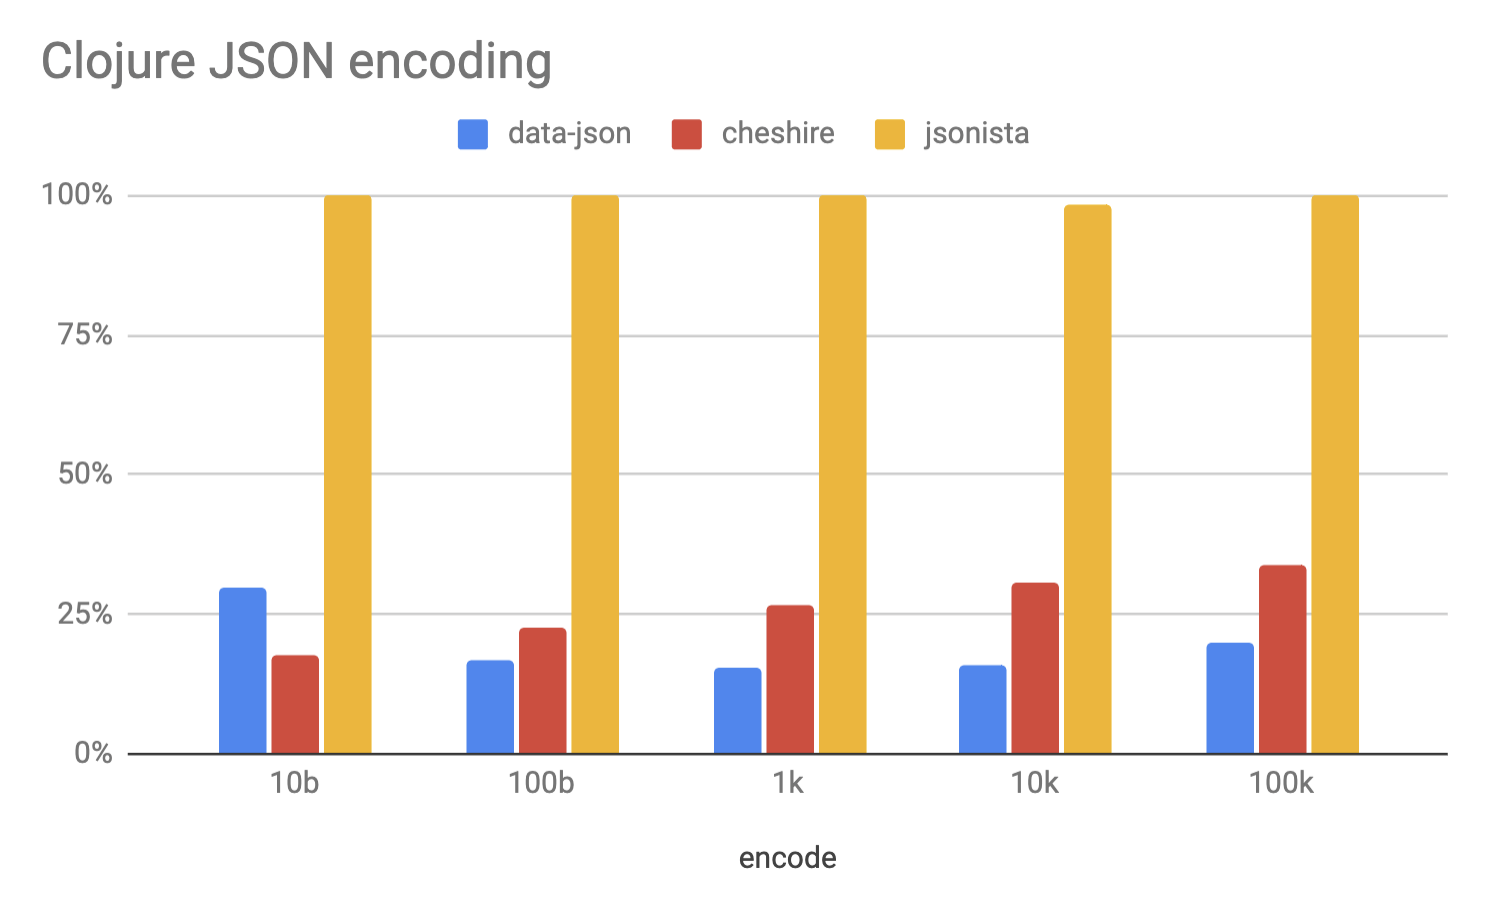
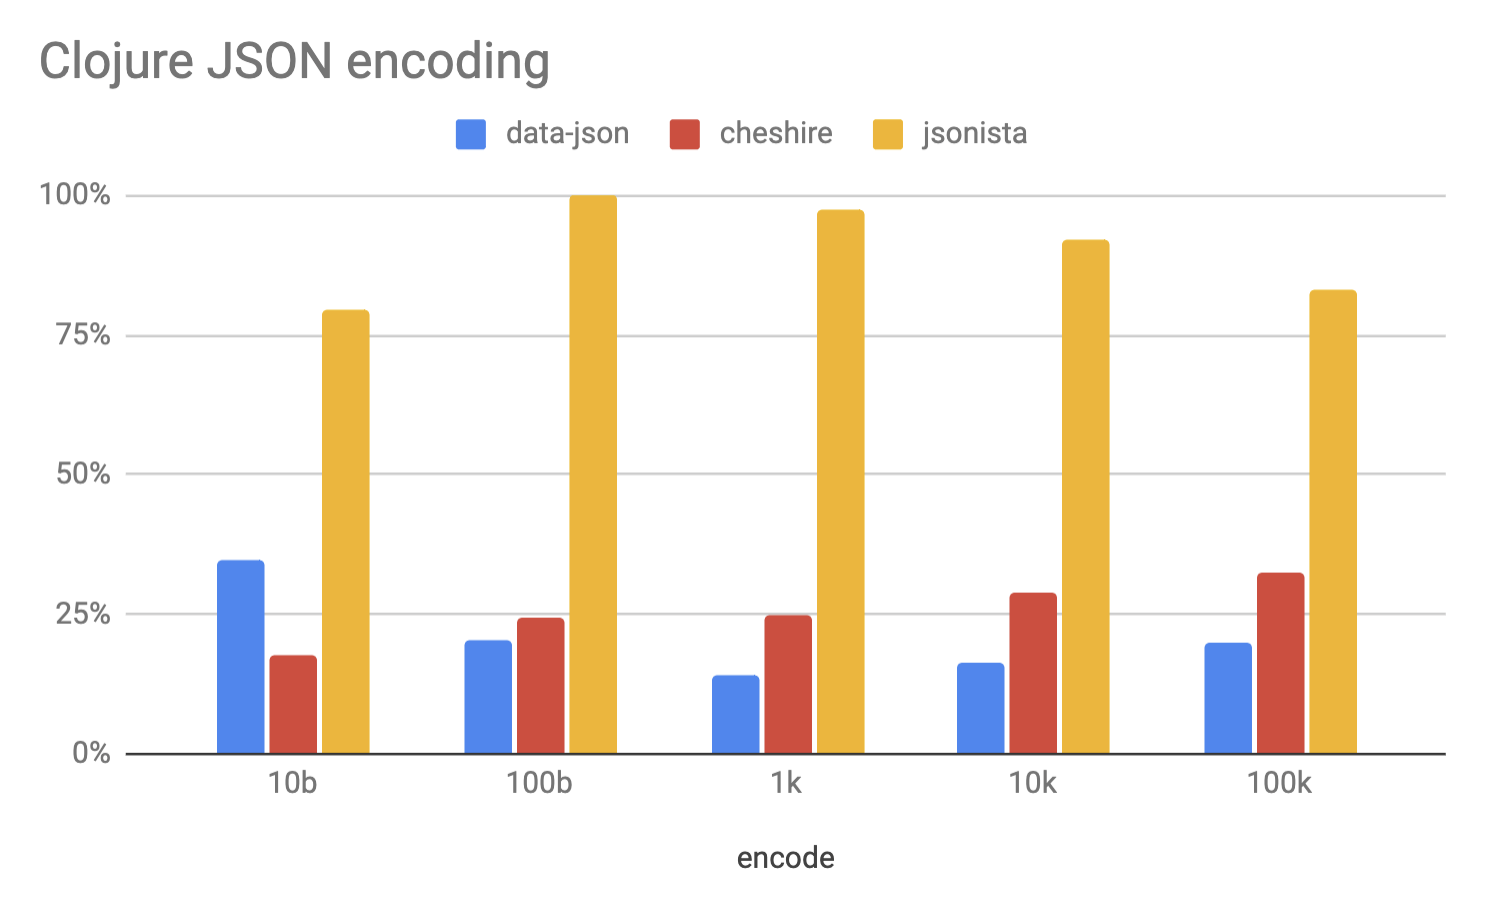
update perf numbers

diff --git a/README.md b/README.md
@@ -159,48 +159,48 @@ see [perf-tests](/test/jsonista/jmh.clj) for details.
 ➜  jsonista git:(master) ✗ lein jmh '{:file "benchmarks.edn", :type :quick, :format :table}'
 {:% 100.0 :eta "00:00:00"}
 
-:benchmark                     :name    :mode        :samples  :score              :score-error  :params
------------------------------  -------  -----------  --------  ------------------  ------------  --------------
-jsonista.jmh/encode-data-json  :encode  :throughput  5         2005040.000  ops/s  18641.040     {:size "10b"}
-jsonista.jmh/encode-data-json  :encode  :throughput  5         332469.712   ops/s  58885.657     {:size "100b"}
-jsonista.jmh/encode-data-json  :encode  :throughput  5         60609.008    ops/s  11476.851     {:size "1k"}
-jsonista.jmh/encode-data-json  :encode  :throughput  5         4970.188     ops/s  638.168       {:size "10k"}
-jsonista.jmh/encode-data-json  :encode  :throughput  5         581.102      ops/s  5.168         {:size "100k"}
-jsonista.jmh/encode-cheshire   :encode  :throughput  5         1205106.095  ops/s  42282.531     {:size "10b"}
-jsonista.jmh/encode-cheshire   :encode  :throughput  5         450330.840   ops/s  23666.810     {:size "100b"}
-jsonista.jmh/encode-cheshire   :encode  :throughput  5         105423.654   ops/s  8408.732      {:size "1k"}
-jsonista.jmh/encode-cheshire   :encode  :throughput  5         9734.970     ops/s  118.249       {:size "10k"}
-jsonista.jmh/encode-cheshire   :encode  :throughput  5         978.945      ops/s  8.672         {:size "100k"}
-jsonista.jmh/encode-jsonista   :encode  :throughput  5         6761392.263  ops/s  113396.242    {:size "10b"}
-jsonista.jmh/encode-jsonista   :encode  :throughput  5         1976136.012  ops/s  50656.525     {:size "100b"}
-jsonista.jmh/encode-jsonista   :encode  :throughput  5         393627.163   ops/s  4972.565      {:size "1k"}
-jsonista.jmh/encode-jsonista   :encode  :throughput  5         31114.706    ops/s  557.984       {:size "10k"}
-jsonista.jmh/encode-jsonista   :encode  :throughput  5         2887.899     ops/s  59.618        {:size "100k"}
-jsonista.jmh/encode-jackson    :encode  :throughput  5         6108654.930  ops/s  2090135.205   {:size "10b"}
-jsonista.jmh/encode-jackson    :encode  :throughput  5         1944127.861  ops/s  431031.615    {:size "100b"}
-jsonista.jmh/encode-jackson    :encode  :throughput  5         356943.193   ops/s  3977.765      {:size "1k"}
-jsonista.jmh/encode-jackson    :encode  :throughput  5         31697.766    ops/s  1753.636      {:size "10k"}
-jsonista.jmh/encode-jackson    :encode  :throughput  5         2562.607     ops/s  177.252       {:size "100k"}
-jsonista.jmh/decode-data-json  :decode  :throughput  5         2208464.243  ops/s  187701.406    {:size "10b"}
-jsonista.jmh/decode-data-json  :decode  :throughput  5         524637.916   ops/s  28974.507     {:size "100b"}
-jsonista.jmh/decode-data-json  :decode  :throughput  5         80714.396    ops/s  4794.186      {:size "1k"}
-jsonista.jmh/decode-data-json  :decode  :throughput  5         7152.868     ops/s  882.978       {:size "10k"}
-jsonista.jmh/decode-data-json  :decode  :throughput  5         756.348      ops/s  77.543        {:size "100k"}
-jsonista.jmh/decode-cheshire   :decode  :throughput  5         1380506.771  ops/s  61626.508     {:size "10b"}
-jsonista.jmh/decode-cheshire   :decode  :throughput  5         526259.733   ops/s  8367.880      {:size "100b"}
-jsonista.jmh/decode-cheshire   :decode  :throughput  5         101846.083   ops/s  1052.037      {:size "1k"}
-jsonista.jmh/decode-cheshire   :decode  :throughput  5         9493.634     ops/s  177.983       {:size "10k"}
-jsonista.jmh/decode-cheshire   :decode  :throughput  5         996.374      ops/s  12.745        {:size "100k"}
-jsonista.jmh/decode-jsonista   :decode  :throughput  5         2933372.525  ops/s  40995.514     {:size "10b"}
-jsonista.jmh/decode-jsonista   :decode  :throughput  5         686867.379   ops/s  3734.473      {:size "100b"}
-jsonista.jmh/decode-jsonista   :decode  :throughput  5         146331.608   ops/s  1187.801      {:size "1k"}
-jsonista.jmh/decode-jsonista   :decode  :throughput  5         13509.398    ops/s  248.500       {:size "10k"}
-jsonista.jmh/decode-jsonista   :decode  :throughput  5         1363.565     ops/s  10.496        {:size "100k"}
-jsonista.jmh/decode-jackson    :decode  :throughput  5         5773791.401  ops/s  31457.861     {:size "10b"}
-jsonista.jmh/decode-jackson    :decode  :throughput  5         1379791.334  ops/s  370113.189    {:size "100b"}
-jsonista.jmh/decode-jackson    :decode  :throughput  5         245659.626   ops/s  12711.129     {:size "1k"}
-jsonista.jmh/decode-jackson    :decode  :throughput  5         23398.618    ops/s  2886.782      {:size "10k"}
-jsonista.jmh/decode-jackson    :decode  :throughput  5         2342.444     ops/s  155.288       {:size "100k"}
+:benchmark                         :name    :mode        :samples  :score              :score-error  :params
+-----------------------------      -------  -----------  --------  ------------------  ------------  --------------
+jsonista.jmh/encode-data-json      :encode  :throughput  5         1905463.089  ops/s  63122.305     {:size "10b"}
+jsonista.jmh/encode-data-json      :encode  :throughput  5         345349.400   ops/s  175312.845    {:size "100b"}
+jsonista.jmh/encode-data-json      :encode  :throughput  5         55137.457    ops/s  20339.204     {:size "1k"}
+jsonista.jmh/encode-data-json      :encode  :throughput  5         5194.837     ops/s  395.984       {:size "10k"}
+jsonista.jmh/encode-data-json      :encode  :throughput  5         539.111      ops/s  219.494       {:size "100k"}
+jsonista.jmh/encode-cheshire       :encode  :throughput  5         965841.282   ops/s  384153.551    {:size "10b"}
+jsonista.jmh/encode-cheshire       :encode  :throughput  5         414779.218   ops/s  77713.579     {:size "100b"}
+jsonista.jmh/encode-cheshire       :encode  :throughput  5         95781.504    ops/s  16569.179     {:size "1k"}
+jsonista.jmh/encode-cheshire       :encode  :throughput  5         9114.238     ops/s  824.365       {:size "10k"}
+jsonista.jmh/encode-cheshire       :encode  :throughput  5         888.121      ops/s  190.972       {:size "100k"}
+jsonista.jmh/encode-jsonista       :encode  :throughput  5         4354049.558  ops/s  1215677.321   {:size "10b"}
+jsonista.jmh/encode-jsonista       :encode  :throughput  5         1698787.064  ops/s  940540.979    {:size "100b"}
+jsonista.jmh/encode-jsonista       :encode  :throughput  5         376730.022   ops/s  154961.364    {:size "1k"}
+jsonista.jmh/encode-jsonista       :encode  :throughput  5         29272.337    ops/s  5208.374      {:size "10k"}
+jsonista.jmh/encode-jsonista       :encode  :throughput  5         2275.436     ops/s  1329.558      {:size "100k"}
+jsonista.jmh/encode-jackson        :encode  :throughput  5         5471224.116  ops/s  2598678.138   {:size "10b"}
+jsonista.jmh/encode-jackson        :encode  :throughput  5         1509416.980  ops/s  497578.108    {:size "100b"}
+jsonista.jmh/encode-jackson        :encode  :throughput  5         386633.021   ops/s  1158.922      {:size "1k"}
+jsonista.jmh/encode-jackson        :encode  :throughput  5         31780.542    ops/s  2320.829      {:size "10k"}
+jsonista.jmh/encode-jackson        :encode  :throughput  5         2735.888     ops/s  406.603       {:size "100k"}
+jsonista.jmh/decode-data-json      :decode  :throughput  5         2094889.246  ops/s  89077.322     {:size "10b"}
+jsonista.jmh/decode-data-json      :decode  :throughput  5         485354.569   ops/s  23670.883     {:size "100b"}
+jsonista.jmh/decode-data-json      :decode  :throughput  5         83811.653    ops/s  3133.162      {:size "1k"}
+jsonista.jmh/decode-data-json      :decode  :throughput  5         7741.879     ops/s  155.608       {:size "10k"}
+jsonista.jmh/decode-data-json      :decode  :throughput  5         797.233      ops/s  14.762        {:size "100k"}
+jsonista.jmh/decode-cheshire       :decode  :throughput  5         1433093.847  ops/s  90976.064     {:size "10b"}
+jsonista.jmh/decode-cheshire       :decode  :throughput  5         450070.726   ops/s  131950.612    {:size "100b"}
+jsonista.jmh/decode-cheshire       :decode  :throughput  5         91872.057    ops/s  6432.237      {:size "1k"}
+jsonista.jmh/decode-cheshire       :decode  :throughput  5         8509.100     ops/s  156.138       {:size "10k"}
+jsonista.jmh/decode-cheshire       :decode  :throughput  5         887.882      ops/s  33.875        {:size "100k"}
+jsonista.jmh/decode-jsonista       :decode  :throughput  5         2608856.640  ops/s  474804.764    {:size "10b"}
+jsonista.jmh/decode-jsonista       :decode  :throughput  5         607787.943   ops/s  13728.880     {:size "100b"}
+jsonista.jmh/decode-jsonista       :decode  :throughput  5         120542.299   ops/s  39147.980     {:size "1k"}
+jsonista.jmh/decode-jsonista       :decode  :throughput  5         10827.731    ops/s  5616.145      {:size "10k"}
+jsonista.jmh/decode-jsonista       :decode  :throughput  5         1128.572     ops/s  232.442       {:size "100k"}
+jsonista.jmh/decode-jackson        :decode  :throughput  5         5526592.411  ops/s  1463758.000   {:size "10b"}
+jsonista.jmh/decode-jackson        :decode  :throughput  5         1316257.448  ops/s  163658.831    {:size "100b"}
+jsonista.jmh/decode-jackson        :decode  :throughput  5         252440.943   ops/s  14566.399     {:size "1k"}
+jsonista.jmh/decode-jackson        :decode  :throughput  5         23871.633    ops/s  1625.629      {:size "10k"}
+jsonista.jmh/decode-jackson        :decode  :throughput  5         2211.046     ops/s  91.282        {:size "100k"}
 ```
 
 ## License
